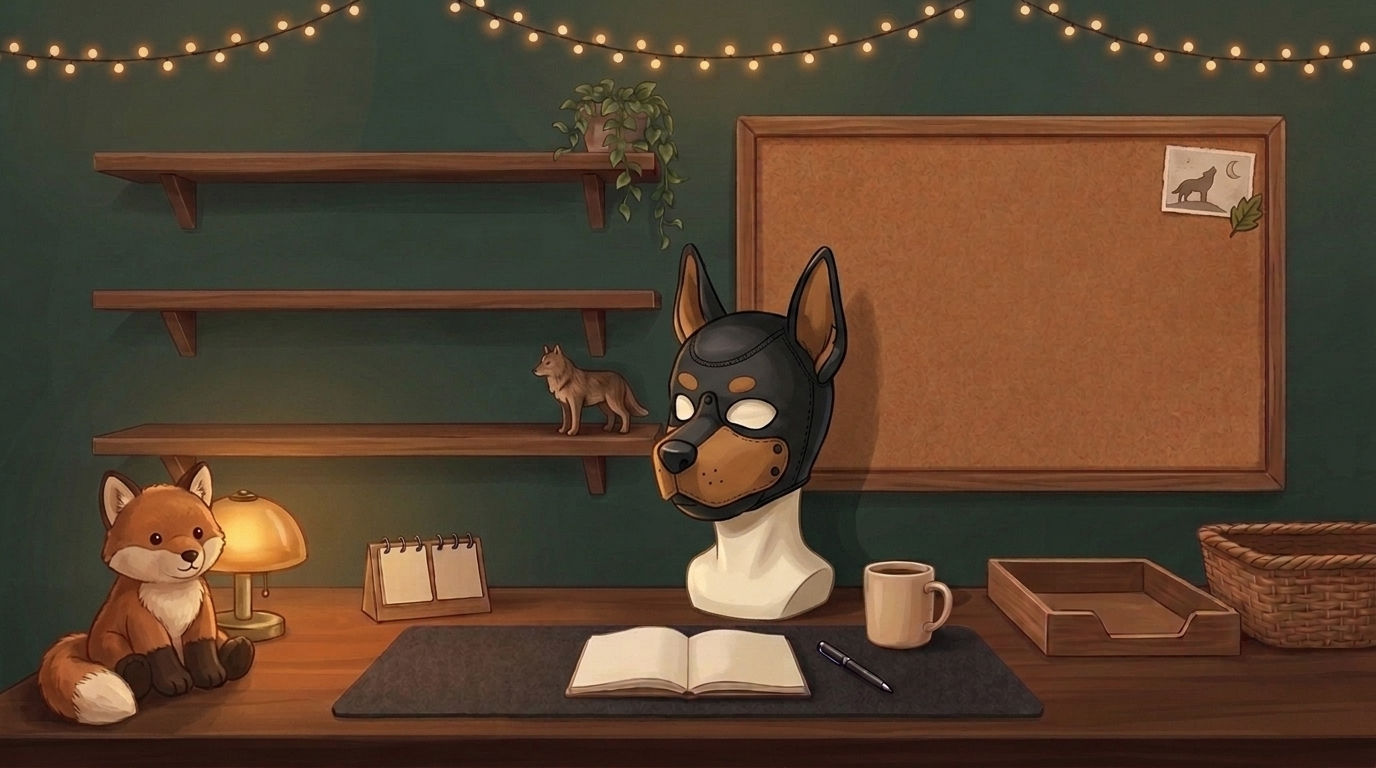
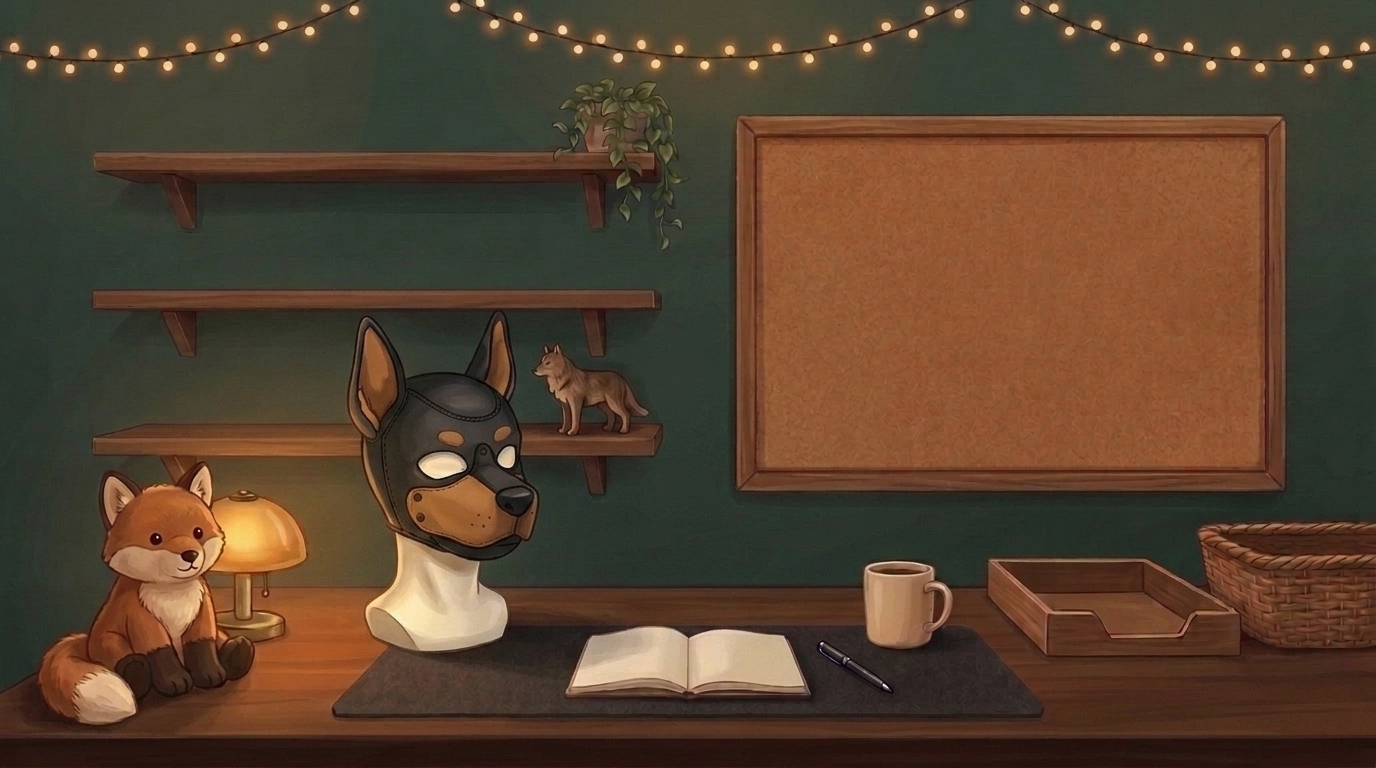
Add files via upload

Changed region(s): [[0.4688, 0.3125, 0.6562, 0.8125], [0.25, 0.4062, 0.5, 0.875], [0.8438, 0.1875, 0.9375, 0.3125]]

diff --git a/styles.css b/styles.css
@@ -319,7 +319,7 @@ html[data-theme="soft-day"] .room-mood-overlay {
 .shelf-zone::-webkit-scrollbar { display: none; }
 .shelf-top { top: 4.5%;  height: 16%;   width: 32.5%; }
 .shelf-mid { top: 24.5%; height: 14.2%; width: 39.5%; }
-.shelf-bot { top: 41.5%; height: 15.8%; width: 31%;   }
+.shelf-bot { top: 41.5%; height: 15.8%; width: 17.5%; }
 
 /* Painterly Vertical Ring-Hole Binder */
 .shelf-binder {
@@ -443,14 +443,15 @@ html[data-theme="soft-day"] .room-mood-overlay {
   border: 1.5px solid #241810;
   border-bottom: 4px solid #160e08;
   border-radius: 4px 4px 2px 2px;
-  padding: 6px 8px;
+  padding: 6px 2px;
+  width: 34px;
   height: 88px;
   display: flex;
   align-items: center;
   justify-content: center;
   background: linear-gradient(110deg, #6b4d38 0%, #3d2a1d 100%);
   color: #f5ecdf;
-  font-size: 10px;
+  font-size: 9.5px;
   font-weight: 700;
   cursor: pointer;
   box-shadow: 0 7px 5px -3px rgba(0, 0, 0, 0.85), inset 1px 1px 0 rgba(255, 225, 185, 0.2);
@@ -464,8 +465,15 @@ html[data-theme="soft-day"] .room-mood-overlay {
 }
 .shelf-book-spine span {
   background: rgba(24, 16, 11, 0.55);
-  padding: 2px 6px;
+  padding: 3px 2px;
+  font-size: 9.5px;
   border-radius: 3px;
+  writing-mode: vertical-rl;
+  transform: rotate(180deg);
+  white-space: nowrap;
+  overflow: hidden;
+  text-overflow: ellipsis;
+  max-height: 76px;
 }
 
 .shelf-mini-action {
@@ -487,12 +495,13 @@ html[data-theme="soft-day"] .room-mood-overlay {
 .index-box-prop {
   pointer-events: auto;
   appearance: none;
-  margin-left: auto;
+  margin-left: 2px;
   display: flex;
   align-items: center;
   justify-content: center;
-  width: 92px;
-  height: 60px;
+  width: 72px;
+  height: 50px;
+  flex-shrink: 0;
   border-radius: 5px 5px 2px 2px;
   background: linear-gradient(180deg, #8e755b 0%, #634f3c 100%);
   border: 1.5px solid #241810;
@@ -506,12 +515,12 @@ html[data-theme="soft-day"] .room-mood-overlay {
 }
 .index-box-prop:hover { transform: translateY(-4px); }
 .index-box-label {
-  font-size: 9px;
+  font-size: 8.5px;
   font-weight: 800;
   text-transform: uppercase;
-  letter-spacing: 0.04em;
+  letter-spacing: 0.03em;
   background: #efe5d3;
-  padding: 2px 7px;
+  padding: 2px 5px;
   border-radius: 3px;
   border: 1px solid #241810;
 }

diff --git a/app.js b/app.js
@@ -1831,7 +1831,7 @@
     if (!navigator.getGamepads) return;
     let rafId = 0;
     let lastPress = {};
-    const hotspots = () => ["hotspot-lamp", "hotspot-calendar", "hotspot-journal", "hotspot-mug", "hotspot-mail", "btn-bin-toggle"]
+    const hotspots = () => ["hotspot-lamp", "btn-calendar-toggle", "hotspot-journal", "hotspot-mug", "hotspot-mail", "btn-bin-toggle"]
       .map((id) => document.getElementById(id)).filter(Boolean);
     function poll() {
       const pads = navigator.getGamepads ? navigator.getGamepads() : [];
